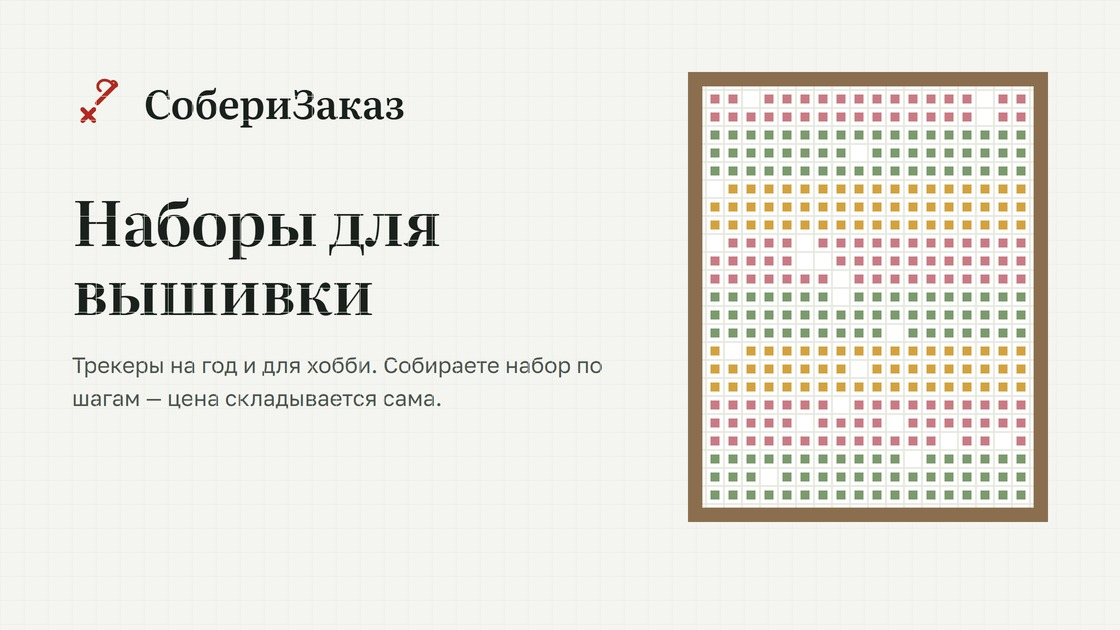
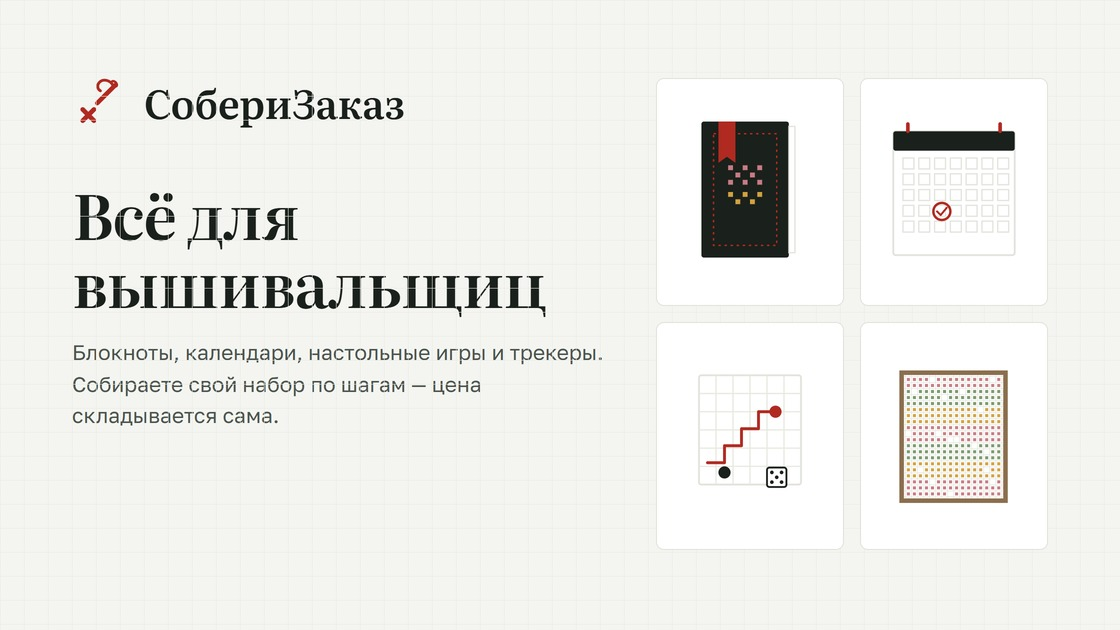
Сниппет: «Всё для вышивальщиц» вместо наборов
Зачем: магазин шире, чем наборы для вышивки — блокноты, календари, игры, трекеры.
Что: новый заголовок и подзаголовок, четыре предметные карточки вместо одного трекера (блокнот, календарь, настольная игра, трекер в раме); README обновлён.
Проверено: PNG/JPG пересобраны 1120×630, карточки не выходят за поля, тексты не переносятся в неудобные строки.

Changed region(s): [[0.5938, 0.0905, 0.9375, 0.8444], [0.0625, 0.3016, 0.5, 0.5127], [0.0625, 0.5429, 0.5312, 0.6937]]

diff --git a/docs/store/assets.html b/docs/store/assets.html
@@ -26,11 +26,11 @@
   .snippet { width: 1120px; height: 630px; padding: 72px; }
   .snippet .brand { display: flex; align-items: center; gap: 16px; font-family: 'Literata', Georgia, serif; font-size: 40px; font-weight: 600; letter-spacing: -0.01em; }
   .snippet .brand svg { color: var(--red); width: 56px; height: 56px; }
-  .snippet h1 { font-family: 'Literata', Georgia, serif; font-size: 62px; line-height: 1.12; font-weight: 600; letter-spacing: -0.02em; margin: 54px 0 0; max-width: 620px; }
-  .snippet p { margin: 24px 0 0; font-size: 22px; line-height: 1.5; color: var(--ink-2); max-width: 540px; }
-  .snippet .thread { position: absolute; left: 72px; bottom: 74px; width: 240px; height: 3px; background: var(--red); border-radius: 2px; opacity: 0.9; }
-  .snippet .art { position: absolute; right: 72px; top: 72px; width: 360px; height: 450px; }
-  .snippet .art svg { width: 100%; height: 100%; display: block; }
+  .snippet h1 { font-family: 'Literata', Georgia, serif; font-size: 62px; line-height: 1.1; font-weight: 600; letter-spacing: -0.02em; margin: 48px 0 0; max-width: 580px; }
+  .snippet p { margin: 22px 0 0; font-size: 21px; line-height: 1.5; color: var(--ink-2); max-width: 540px; }
+  .snippet .items { position: absolute; right: 72px; top: 78px; width: 392px; display: grid; grid-template-columns: 1fr 1fr; gap: 16px; }
+  .snippet .item { background: #ffffff; border: 1px solid var(--line); border-radius: 8px; height: 228px; display: grid; place-items: center; }
+  .snippet .item svg { width: 150px; height: 170px; display: block; }
 </style>
 </head>
 <body>
@@ -57,31 +57,89 @@
       return () => ((s = (s * 1664525 + 1013904223) >>> 0) / 4294967296);
     }
 
-    function chartSvg() {
-      const cols = 20, rows = 25, cell = 10;
+    function chartSvg(done = 0.92) {
+      const cols = 18, rows = 22, cell = 8;
       const w = cols * cell, h = rows * cell;
       const palette = ['#c97b84', '#7c9a6d', '#d3a23f'];
       const r = rng(11);
-      const done = 0.92;
       let cells = '';
       const stitch = (x, y, c) =>
-        `<rect x="${x * cell + 2.5}" y="${y * cell + 2.5}" width="${cell - 5}" height="${cell - 5}" fill="${c}"/>`;
+        `<rect x="${x * cell + 2}" y="${y * cell + 2}" width="${cell - 4}" height="${cell - 4}" fill="${c}"/>`;
       for (let y = 0; y < rows; y++) {
         const t = y / rows;
         const cut = t < done ? cols : Math.max(0, Math.round(cols * (1 - (t - done) / (1 - done))));
         const hue = palette[Math.floor(y / 3) % palette.length];
         for (let x = 0; x < cut; x++) {
-          if (r() > 0.04) cells += stitch(x, y, hue);
+          if (r() > 0.05) cells += stitch(x, y, hue);
         }
       }
       let d = '';
       for (let x = 1; x < cols; x++) d += `M${x * cell} 0V${h}`;
       for (let y = 1; y < rows; y++) d += `M0 ${y * cell}H${w}`;
-      return `<svg viewBox="0 0 ${w} ${h}" preserveAspectRatio="xMidYMid meet" role="img" aria-label="Вышитый трекер в рамке">
+      return `<svg viewBox="0 0 ${w} ${h}" preserveAspectRatio="xMidYMid meet" aria-hidden="true">
         <rect width="${w}" height="${h}" fill="#ffffff"/>
         <path d="${d}" stroke="#e7e8e0" stroke-width="1" fill="none"/>
         ${cells}
-        <rect x="4" y="4" width="${w - 8}" height="${h - 8}" fill="none" stroke="#8b6e4e" stroke-width="8"/>
+        <rect x="3" y="3" width="${w - 6}" height="${h - 6}" fill="none" stroke="#8b6e4e" stroke-width="6"/>
+      </svg>`;
+    }
+
+    function bookSvg() {
+      return `<svg viewBox="0 0 120 140" fill="none" aria-hidden="true">
+        <rect x="20" y="12" width="72" height="112" rx="2" fill="#1a201b"/>
+        <rect x="92" y="16" width="5" height="104" fill="#ffffff" stroke="#e1e3dc" stroke-width="1"/>
+        <path d="M34 12v34l7-5 7 5V12" fill="#b02a21"/>
+        <rect x="30" y="22" width="52" height="92" stroke="#b02a21" stroke-width="1.2" stroke-dasharray="2 3"/>
+        <g fill="#c97b84">
+          <rect x="42" y="48" width="4" height="4"/><rect x="54" y="48" width="4" height="4"/><rect x="66" y="48" width="4" height="4"/>
+          <rect x="48" y="54" width="4" height="4"/><rect x="60" y="54" width="4" height="4"/>
+          <rect x="42" y="60" width="4" height="4"/><rect x="54" y="60" width="4" height="4"/><rect x="66" y="60" width="4" height="4"/>
+        </g>
+        <g fill="#d3a23f">
+          <rect x="42" y="70" width="4" height="4"/><rect x="54" y="70" width="4" height="4"/><rect x="66" y="70" width="4" height="4"/>
+          <rect x="48" y="76" width="4" height="4"/><rect x="60" y="76" width="4" height="4"/>
+        </g>
+      </svg>`;
+    }
+
+    function calendarSvg() {
+      let cells = '';
+      for (let y = 0; y < 5; y++) {
+        for (let x = 0; x < 7; x++) {
+          cells += `<rect x="${18 + x * 13}" y="${42 + y * 13}" width="9" height="9" fill="none" stroke="#e1e3dc" stroke-width="1"/>`;
+        }
+      }
+      return `<svg viewBox="0 0 120 140" fill="none" aria-hidden="true">
+        <rect x="10" y="20" width="100" height="102" rx="2" fill="#ffffff" stroke="#e1e3dc" stroke-width="1.5"/>
+        <rect x="10" y="20" width="100" height="16" rx="2" fill="#1a201b"/>
+        <path d="M22 20v-6M98 20v-6" stroke="#b02a21" stroke-width="3" stroke-linecap="round"/>
+        ${cells}
+        <circle cx="50" cy="86" r="7" stroke="#b02a21" stroke-width="2"/>
+        <path d="M46 86l3 3 5-6" stroke="#b02a21" stroke-width="1.6" stroke-linecap="round" stroke-linejoin="round"/>
+      </svg>`;
+    }
+
+    function gameSvg() {
+      let cells = '';
+      for (let y = 1; y < 6; y++) cells += `<path d="M18 ${20 + y * 15}H102" stroke="#e7e8e0" stroke-width="1"/>`;
+      for (let x = 1; x < 6; x++) cells += `<path d="M${18 + x * 14} 20V110" stroke="#e7e8e0" stroke-width="1"/>`;
+      return `<svg viewBox="0 0 120 140" fill="none" aria-hidden="true">
+        <rect x="18" y="20" width="84" height="90" rx="2" fill="#ffffff" stroke="#e1e3dc" stroke-width="1.5"/>
+        ${cells}
+        <path d="M25 92h14v-14h14v-14h14v-14h14" stroke="#b02a21" stroke-width="2.4" stroke-linecap="round" stroke-linejoin="round"/>
+        <circle cx="81" cy="50" r="5" fill="#b02a21"/>
+        <circle cx="39" cy="100" r="5" fill="#1a201b"/>
+        <rect x="74" y="96" width="16" height="16" rx="2" fill="#ffffff" stroke="#1a201b" stroke-width="1.5"/>
+        <circle cx="78" cy="100" r="1.5" fill="#1a201b"/><circle cx="86" cy="100" r="1.5" fill="#1a201b"/>
+        <circle cx="82" cy="104" r="1.5" fill="#1a201b"/><circle cx="78" cy="108" r="1.5" fill="#1a201b"/><circle cx="86" cy="108" r="1.5" fill="#1a201b"/>
+      </svg>`;
+    }
+
+    function trackerSvg() {
+      const inner = chartSvg();
+      const body = inner.replace(/^<svg[^>]*>/, '').replace(/<\/svg>$/, '');
+      return `<svg viewBox="0 0 120 140" fill="none" aria-hidden="true">
+        <g transform="translate(15 16) scale(0.62)">${body}</g>
       </svg>`;
     }
 
@@ -94,9 +152,14 @@
       root.innerHTML = `<div class="stage snippet">
         ${GRID}
         <div class="brand">${LOGO}<span>СобериЗаказ</span></div>
-        <h1>Наборы для вышивки</h1>
-        <p>Трекеры на год и для хобби. Собираете набор по шагам — цена складывается сама.</p>
-        <div class="art">${chartSvg()}</div>
+        <h1>Всё для вышивальщиц</h1>
+        <p>Блокноты, календари, настольные игры и трекеры. Собираете свой набор по шагам — цена складывается сама.</p>
+        <div class="items">
+          <div class="item">${bookSvg()}</div>
+          <div class="item">${calendarSvg()}</div>
+          <div class="item">${gameSvg()}</div>
+          <div class="item">${trackerSvg()}</div>
+        </div>
       </div>`;
     }
   </script>

diff --git a/docs/store/README.md b/docs/store/README.md
@@ -3,6 +3,8 @@
 Готовые файлы для карточки мини-приложения в VK. Стиль — вариант A
 «Красная нить»: бумага `#F4F5F1`, графит `#1A201B`, красный `#B02A21`,
 Literata + Golos Text. Фон сшит клеткой аиды (24 px), без теней и градиентов.
+Каталог — **всё для вышивальщиц**: блокноты, календари, настольные игры,
+трекеры.
 
 ## Файлы
 
